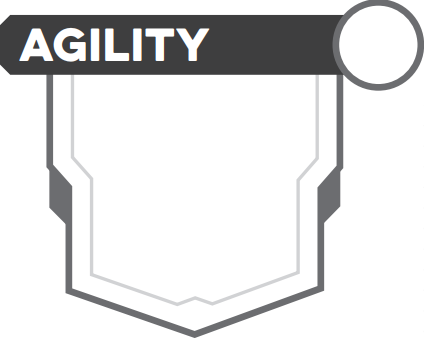
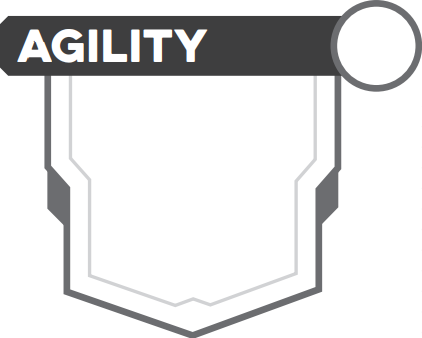
agillity

diff --git a/index-remake.html b/index-remake.html
@@ -87,8 +87,42 @@
           <div class="armor-slot-box"><img src="/images/Armor-Slot-no-bkg.png" height="30px" class="armor-slot" data-selected="false"></div>
         </div>
       </div>
-      <div id="secondary-sheet-header__traits">
 
+      <!--Traits-------------------------------------------------------------------------------------->
+      <div id="secondary-sheet-header__traits">
+        <div class="trait-container">
+          <img src="/images/Agility-Trait-Border-No-Bkg.png" height="90">
+          <img>
+          <input type="text" id="trait-agility" class="image-input">
+          <p>Sprint</p>
+          <p>Leap</p>
+          <p>Maneuver</p>
+        </div>
+        <div class="trait-container">
+          <img>
+          <img>
+          <input type="text" id="trait-strength" class="image-input">
+        </div>
+        <div class="trait-container">
+          <img>
+          <img>
+          <input type="text" id="trait-finese" class="image-input">
+        </div>
+        <div class="trait-container">
+          <img>
+          <img>
+          <input type="text" id="trait-instinct" class="image-input">
+        </div>
+        <div class="trait-container">
+          <img>
+          <img>
+          <input type="text" id="trait-presense" class="image-input">
+        </div>
+        <div class="trait-container">
+          <img>
+          <img>
+          <input type="text" id="trait-knowledge" class="image-input">
+        </div>
       </div>
     </div>
   </div>

diff --git a/style-remake.css b/style-remake.css
@@ -141,7 +141,6 @@ body{
 /*Evasion and Armor -------------------------------------------------------------*/
 #secondary-sheet-header__evasion-armor{
   display: flex;
-  flex-grow: 1;
   border-right: 2px solid #6c6d70;
 }
 
@@ -154,13 +153,16 @@ body{
 
 /*Armor Slots -------------------------------------------------------------*/
 #armor-slot-grid{
-  display: grid;
-  grid-template-columns: repeat(4, 1fr);
+  display: flex;
+  flex-wrap: wrap;
+  max-width: 120px;
+  max-height: 100px;
   margin-left: 15px;
-  margin-right: 15px;
+  margin-right:15px;
 }
 
 #armor-slot-grid .armor-slot-box{
+  flex: 1 1 25%;
   aspect-ratio: 1 / 1;
   display: flex;
   justify-content: center;
@@ -171,6 +173,33 @@ body{
 }
 
 /*Traits -------------------------------------------------------------*/
+#secondary-sheet-header__traits{
+  display: flex;
+  margin-left: 15px;
+  gap: 5px;
+}
+
+.trait-container{
+  display: flex;
+  flex-direction: column;
+  justify-content: center;
+  text-align: center;
+}
+
+.trait-container p{
+  position: relative;
+  transform: translate(-5%, 0);
+  font-size: .85rem;
+  font-weight: 400;
+  color: #3e3e3f;
+}
+
+#trait-agility{
+  transform: translate(-195%, 55%);
+}
+
+
+
 
 
 
